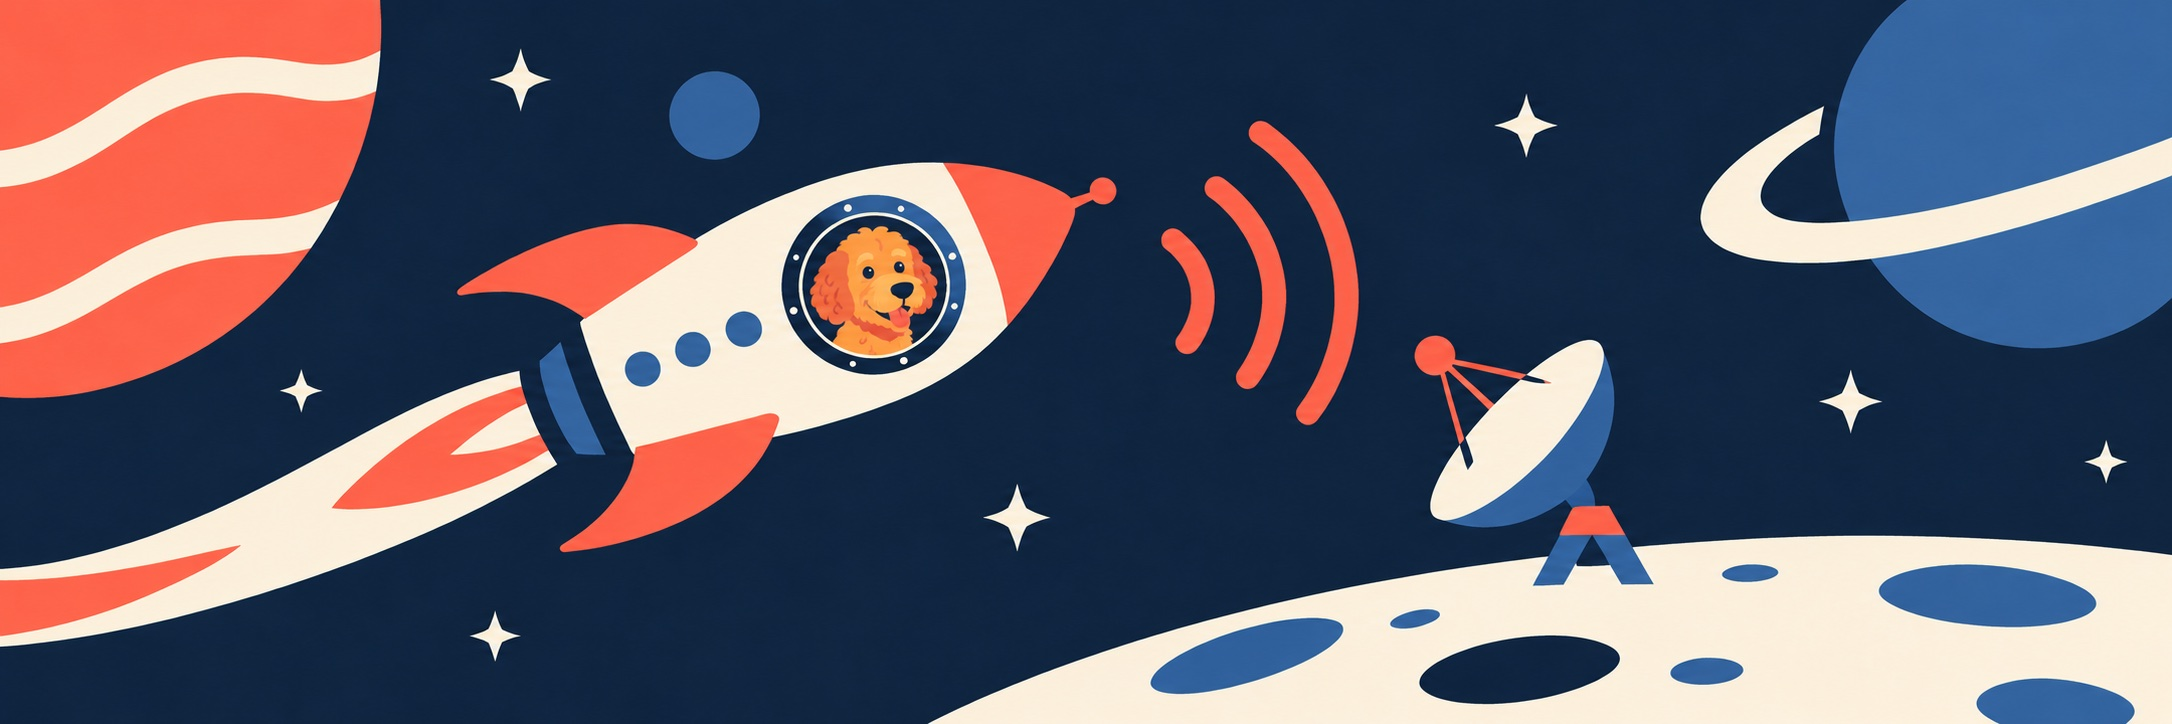
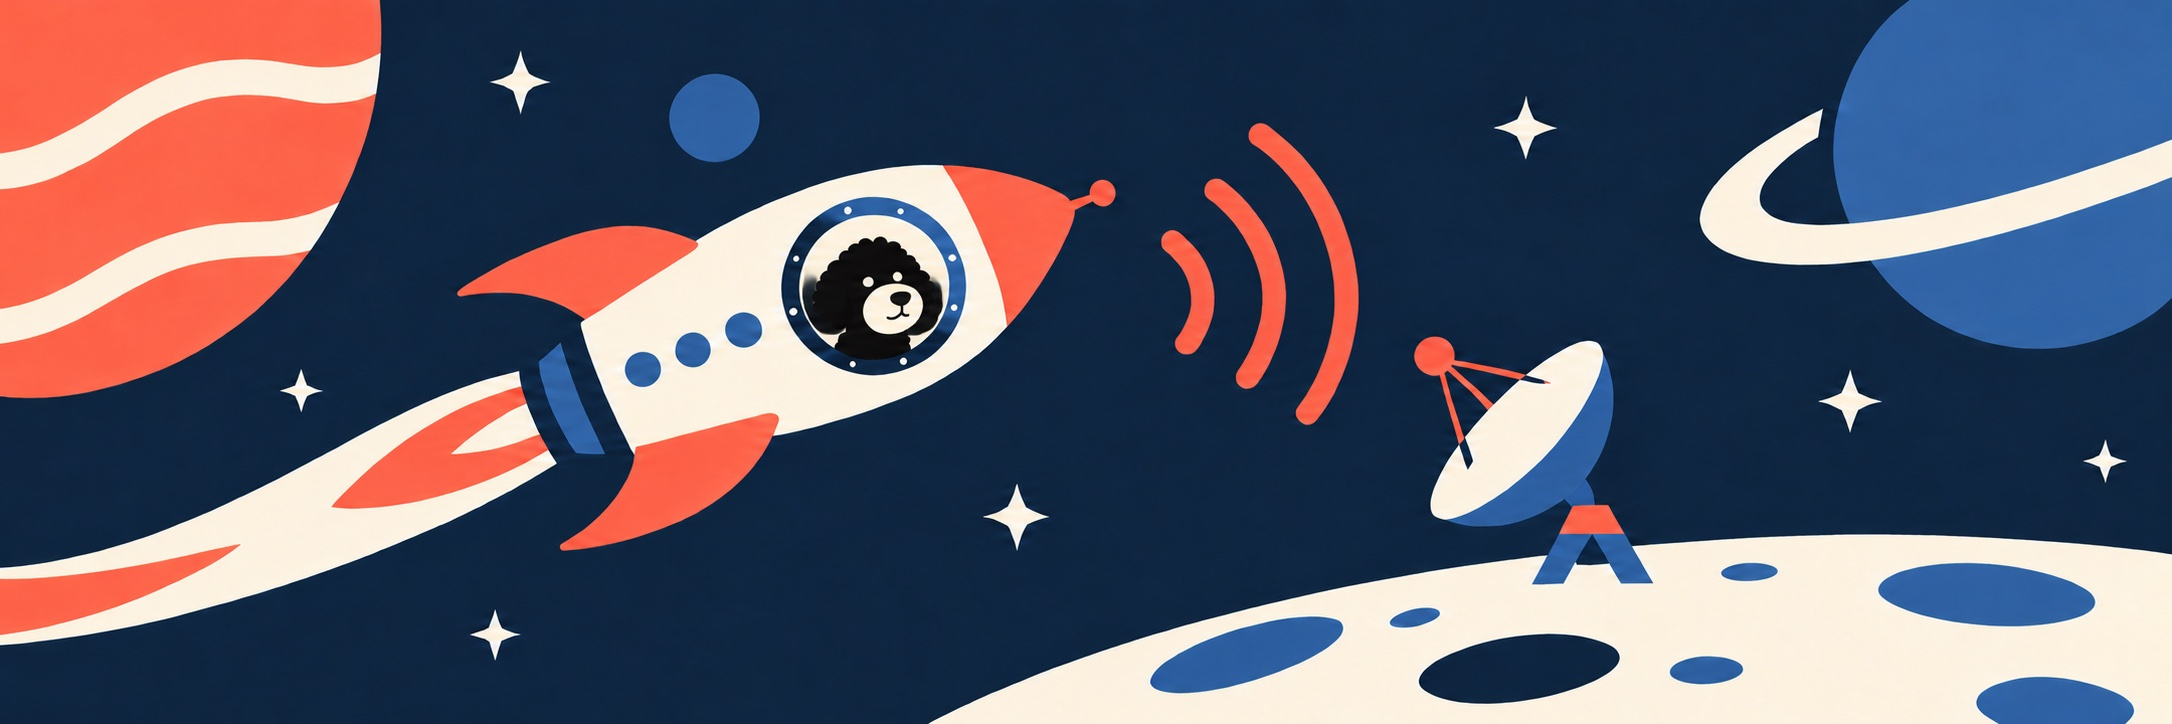
Simplify the groodle pilot and make its fur black

diff --git a/docs/images/README.md b/docs/images/README.md
@@ -1,6 +1,6 @@
 # Header illustration
 
-The Sound Control header was generated on 24 October 2026 with OpenAI’s built-in image generation tool. An orange groodle pilots a spaceship that sends sound waves to a dish on the moon. The scene reflects the name’s joke on ‘ground control’. It is decorative artwork, not an app screenshot.
+The Sound Control header was generated on 24 October 2026 with OpenAI’s built-in image generation tool. A black groodle pilots a spaceship that sends sound waves to a dish on the moon. The scene reflects the name’s joke on ‘ground control’. It is decorative artwork, not an app screenshot.
 
 The published JPEG is 2172 × 724 pixels. It was compressed for use in the README. It contains no written instructions or essential information. The README gives it an empty alt attribute, following the Style Manual’s [guidance for decorative images](https://www.stylemanual.gov.au/content-types/images/alt-text-captions-and-titles-images#decorative-images).
 
@@ -18,4 +18,20 @@ The built-in image generation tool edited the spaceship banner with this prompt:
 
 ```text
 Edit this existing Sound Control banner. Change ONLY the character inside the spaceship's round porthole: replace the human pilot with a cheerful orange/apricot groodle (golden retriever–poodle cross), with recognisable fluffy curly fur, floppy ears, a rounded dog muzzle, dark nose and friendly dark eyes. Show the groodle's head and a little upper chest comfortably within the same porthole, looking outward, as the spaceship pilot. Render the dog using the same playful flat 2D graphic style and crisp simple shapes, with warm orange fur and restrained darker orange curl shapes. Preserve the spaceship, porthole frame, radio waves, satellite dish, planets, stars, moon, colours, layout and wide aspect ratio. No text, new objects, photographic detail, gradients, shadows or 3D effects.
+```
+
+## Flat style edit prompt
+
+The dog was simplified with this prompt:
+
+```text
+Edit ONLY the orange groodle pilot within the circular spaceship window. The current dog is too detailed and shaded compared with the surrounding flat geometric space artwork. Redraw it as a very simple mid-century flat graphic emblem matching the rocket and planets: one solid coral-orange silhouette (use the EXACT orange of the rocket fins), two floppy rounded ears, just 3 or 4 large scallops along the head outline to suggest a groodle's fluffy fur, a simple cream oval muzzle, two tiny solid navy dot eyes and one navy oval nose. At most one short navy smile curve. No tongue, no individual curls, no fur lines, no orange tonal variations, no yellow, no highlights, no outlines around the silhouette, no shading or gradients. Use only the banner's existing orange, cream and navy. Friendly groodle identity through the fluffy silhouette and floppy ears, not through detail. Keep the same small size inside the porthole. Preserve every other part of the reference image: rocket, porthole frame, sound waves, planets, stars, moon, dish, composition, aspect ratio and colours. Do not redesign the banner.
+```
+
+## Black groodle edit prompt
+
+The final colour edit used this prompt:
+
+```text
+Edit only the groodle inside the spaceship porthole in this banner. Make its fur solid black, including its head, floppy ears, and upper chest. Keep the dog as a very simple flat geometric emblem that matches the surrounding artwork: a scalloped fluffy silhouette, a cream oval muzzle, a black nose and short smile, and tiny cream eyes so its expression reads clearly. Use a flat cream interior behind the dog inside the circular window so the black silhouette stands out; preserve the existing blue porthole frame. No fur lines, individual curls, shading, highlights, gradients or realistic detail. Keep its size and position unchanged. Preserve absolutely all other artwork: spaceship, orange fins, radio waves, moon, satellite dish, planets, stars, background and wide composition. No text.
 ```
